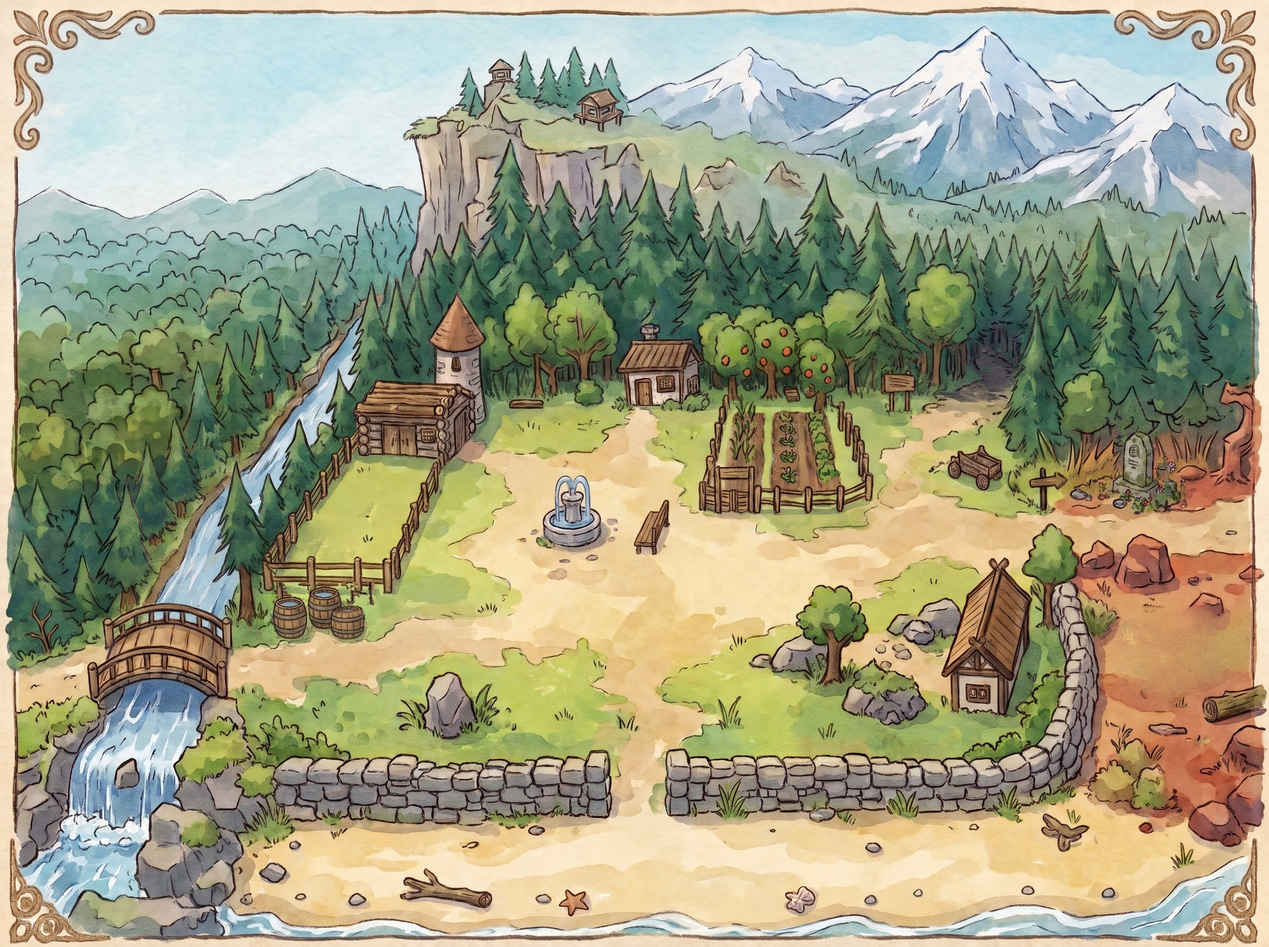
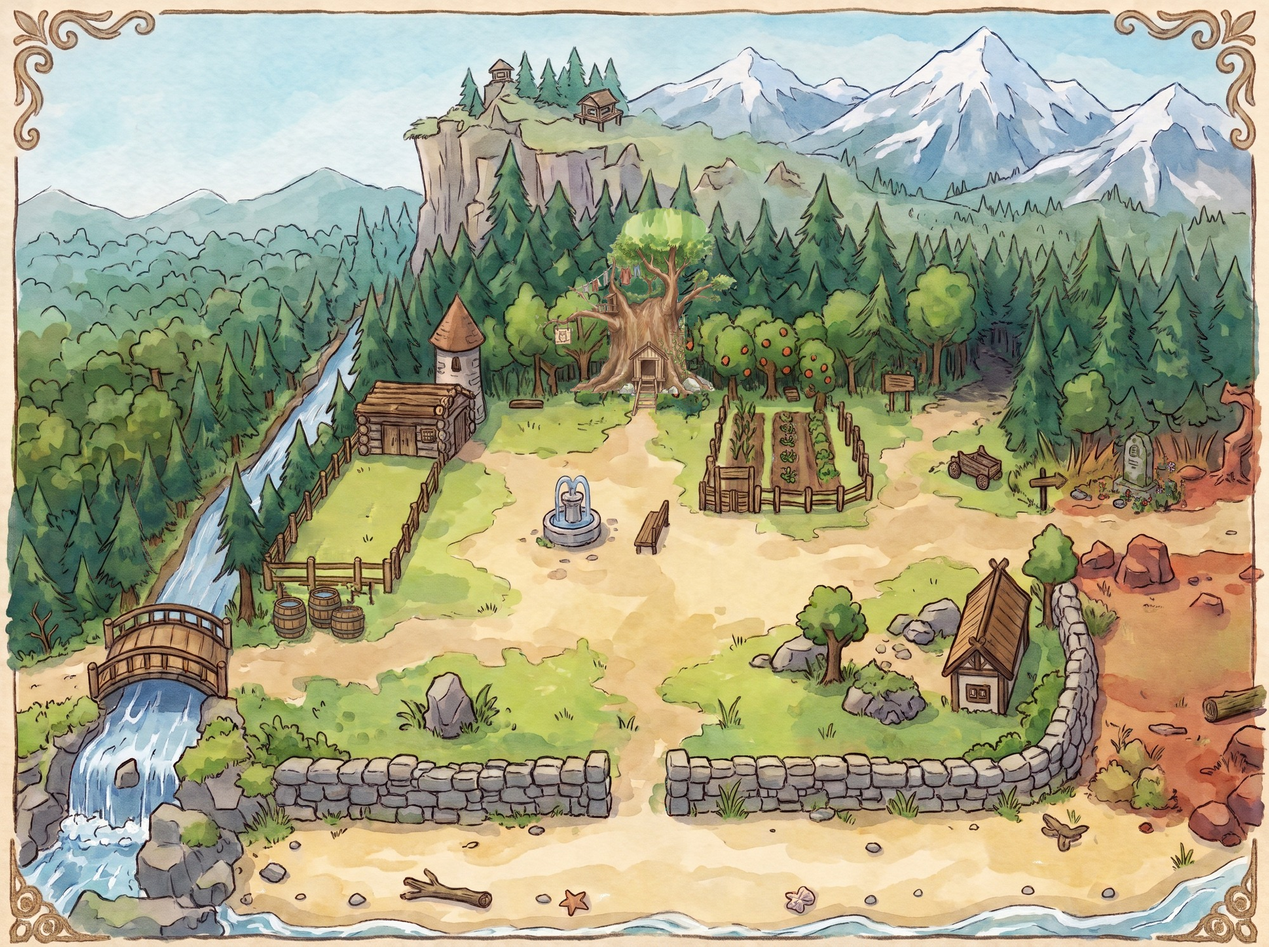
v0.8：主人公とモクちゃんの家を、Ronnie の絵の大きな木の家に
- 上端の見切れは、茂りを裏返して伸ばして丸く描き足す
- まわりの景色を除いて切り抜き、前の小屋の位置（はしごの足元＝入口）に置く
- 煙突の煙をやめ、夜の明かりと揺れる茂りを木の家に合わせる

Changed region(s): [[0.434, 0.2157, 0.589, 0.4622]]

diff --git a/src/view/world.ts b/src/view/world.ts
@@ -57,8 +57,8 @@ interface Sway {
 const SWAYS: Record<string, Sway> = {
   plazaTree: { cx: 1311, cy: 966, rx: 62, ry: 50, pivotY: 1012, amp: 1.6, phase: 0 },
   smithyTree: { cx: 1656, cy: 872, rx: 47, ry: 48, pivotY: 918, amp: 1.3, phase: 1.7 },
-  westTree1: { cx: 828, cy: 488, rx: 38, ry: 54, pivotY: 540, amp: 1.2, phase: 0.6 },
-  westTree2: { cx: 907, cy: 490, rx: 48, ry: 60, pivotY: 552, amp: 1.4, phase: 2.4 },
+  // 主人公とモクちゃんの家（大きな木）の茂り。左の2本の木は、木の家の枝と看板に重なるので揺らさない
+  bigTree: { cx: 1043, cy: 378, rx: 84, ry: 50, pivotY: 425, amp: 1.0, phase: 0.6 },
   orchard1: { cx: 1142, cy: 528, rx: 42, ry: 54, pivotY: 580, amp: 1.1, phase: 1.1 },
   orchard2: { cx: 1220, cy: 538, rx: 44, ry: 54, pivotY: 590, amp: 1.1, phase: 2.9 },
   orchard3: { cx: 1288, cy: 553, rx: 37, ry: 48, pivotY: 600, amp: 1.0, phase: 0.3 },
@@ -766,7 +766,7 @@ function emitLeaves(dt: number, cam: Camera): void {
 
 function emitVillage(dt: number, t: number, forgeBusy: boolean): void {
   // 小屋の煙突の煙（いつも少し出ている。風で右へ流れる）
-  for (let i = EMIT.chimney.count(dt); i > 0; i--) smoke(skyFx, 1018, 511);
+  // （2026-11-19 家を大きな木の家にしたので、煙突の煙は無くなった）
   // 鍛冶小屋：炉が動いているときは屋根から煙
   if (forgeBusy) for (let i = EMIT.smithySmoke.count(dt); i > 0; i--) smoke(skyFx, 1556, 892, 0.8);
 

diff --git a/src/core/map.ts b/src/core/map.ts
@@ -139,9 +139,10 @@ const BRIDGE_GAPS: [number, number][] = [
 
 /** 夜に灯る窓 */
 export const WINDOWS = {
+  // 木の家の入口と、上の小さな見張り小屋
   hut: [
-    { x: 1052, y: 602 },
-    { x: 1086, y: 612 },
+    { x: 1018, y: 582 },
+    { x: 963, y: 470 },
   ],
   forge: { x: 1586, y: 1086 },
 } as const;

diff --git a/tools/prepare_village.py b/tools/prepare_village.py
@@ -259,6 +259,137 @@ def shrink_object(base, src, hard, k=SHRINK):
     print(f'  shrink ({x0},{y0})-({x1},{y1}) -> ({nx},{ny})-({nx + small.shape[1]},{y1})')
 
 
+# ---------------------------------------------------------------- 主人公とモクちゃんの家（大きな木の家）
+
+TREEHOUSE = ROOT / 'docs/concept/treehouse.jpg'
+# 作業は元の絵の半分の大きさで行う（村に置くときはさらに縮めるので、細かさは十分）
+TH_HALF = 0.5
+# 上端の見切れを補うために、上に足す余白（元の絵の px）
+TH_PAD = 240
+# 村に置く大きさ（元の絵の px → 村の px）と、はしごの足元を置く位置
+TH_SCALE = 0.17
+TH_FOOT_SRC = (1205, 1700)
+TH_FOOT_VILLAGE = (1015, 655)
+
+# 木と家だけを囲む形（元の絵の px）。まわりの景色（左の森・牧場・右の荒野や鍛冶小屋）は入れない
+TH_POLYS = [
+    # 葉の茂り・幹・根もと
+    [(940, -230), (1840, -230), (1880, 60), (1860, 200), (1800, 280), (1650, 300), (1580, 330), (1580, 600),
+     (1580, 1150), (1600, 1280), (1700, 1330), (1830, 1400), (1860, 1470), (1700, 1505), (1320, 1500),
+     (1320, 1720), (1080, 1720), (1080, 1500), (470, 1490), (470, 1440), (640, 1360), (760, 1260), (850, 1100),
+     (880, 980), (870, 850), (860, 760), (900, 600), (860, 300), (870, 100)],
+    # 右の枝と葉
+    [(1530, 560), (1620, 470), (1660, 380), (1700, 330), (1790, 330), (1800, 380), (1880, 370), (2000, 410),
+     (2070, 440), (2060, 520), (1980, 560), (1900, 585), (1920, 640), (1860, 660), (1780, 640), (1700, 625),
+     (1600, 645), (1545, 700)],
+    # 左上の枝（洗濯ひもの端）
+    [(470, 490), (560, 500), (640, 560), (760, 640), (880, 690), (880, 730), (750, 700), (620, 600), (520, 540), (470, 520)],
+    # 左の枝と、看板・葉
+    [(200, 770), (330, 812), (400, 788), (520, 762), (640, 728), (760, 698), (880, 700), (880, 830), (800, 805),
+     (720, 795), (640, 790), (560, 798), (545, 830), (545, 1050), (360, 1050), (360, 838), (300, 865), (230, 935),
+     (200, 910)],
+    # 洗濯ひもと服
+    [(470, 500), (940, 270), (1180, 260), (1180, 450), (940, 450), (740, 560), (620, 600), (470, 530)],
+]
+
+
+def th_dome(w_half, pad_half, x0, x1):
+    """上端の見切れの上に足す、葉の茂りの丸い形（半分の大きさの座標）。x0〜x1 は元の絵の上端の茂りの幅"""
+    cx, hw, h = (x0 + x1) / 2, (x1 - x0) / 2, 215 * TH_HALF
+    top = np.full(w_half, np.inf)
+    for x in range(w_half):
+        u = (x - cx) / hw
+        if abs(u) < 1:
+            # 葉のかたまりのでこぼこ（幅 30〜40px ほどのふくらみ）
+            bump = 7 * abs(np.sin((x - x0) / 36 * np.pi))
+            top[x] = pad_half - h * (1 - u * u) ** 0.55 - bump * (1 - u * u) ** 0.3
+    return top
+
+
+def build_treehouse():
+    """木の家の絵を、上端を補い、景色を抜いた RGBA にする（半分の大きさ）"""
+    src = Image.open(TREEHOUSE).convert('RGB')
+    src = src.resize((round(src.width * TH_HALF), round(src.height * TH_HALF)), Image.LANCZOS)
+    a = np.asarray(src).astype(np.float32)
+    pad = round(TH_PAD * TH_HALF)
+    h, w = a.shape[:2]
+    img = np.full((h + pad, w, 3), 250.0, np.float32)
+    img[pad:] = a
+    paper = (a.min(axis=2) > 226) & ((a.max(axis=2) - a.min(axis=2)) < 24)
+    # 1. 上端の見切れ：元の絵の上端の茂りを上下に裏返して少し伸ばし、丸い形に描き足す
+    #    （裏返すと、つなぎ目で模様が途切れない。伸ばすのは、枝が入らない上の方だけを使うため）
+    row = np.nonzero(~paper[1])[0]
+    x0, x1 = row.min(), row.max()
+    top = th_dome(w, pad, x0, x1)
+    yy, xx = np.mgrid[0:h + pad, 0:w]
+    dome = (yy >= top[None, :]) & (yy < pad)
+    band = round(80 * TH_HALF)
+    stretch = (215 * TH_HALF + 8) / band
+    for y in range(pad):
+        sy = pad + min(band - 1, int((pad - 1 - y) / stretch))
+        m = dome[y]
+        img[y, m] = img[sy, m]
+    # 裏返した所は、少し明るく（上の葉は光が当たる）
+    lift = np.clip((pad - yy) / max(1, pad), 0, 1)[..., None] * dome[..., None]
+    img = img * (1 - 0.12 * lift) + 255 * 0.12 * lift
+    print('  茂りを描き足した')
+    # 輪郭の墨線（ゆらいだ線で、葉のかたまりの形に）
+    rng = np.random.default_rng(3)
+    ink = np.zeros((h + pad, w), np.float32)
+    for x in range(w):
+        if np.isfinite(top[x]):
+            y = top[x] + rng.normal(0, 0.4)
+            y0 = int(np.floor(y))
+            for dy, k in ((0, 1.0), (1, 0.7), (-1, 0.35)):
+                if 0 <= y0 + dy < h + pad:
+                    ink[y0 + dy, x] = max(ink[y0 + dy, x], k)
+    ink = ndimage.gaussian_filter(ink, 0.6)
+    inkc = np.array([62, 48, 40], np.float32)
+    img = img * (1 - ink[..., None] * 0.85) + inkc * ink[..., None] * 0.85
+    # 2. 形：木と家の範囲の中の、紙でない所（＋描き足した茂り）
+    pm = Image.new('L', (w, h + pad), 0)
+    d = ImageDraw.Draw(pm)
+    for poly in TH_POLYS:
+        d.polygon([(x * TH_HALF, (y + TH_PAD) * TH_HALF) for x, y in poly], fill=255)
+    region = np.asarray(pm) > 0
+    mn = img.min(axis=2)
+    sat = img.max(axis=2) - mn
+    paperish = (mn > 222) & (sat < 26)
+    fg = region & ~paperish
+    # 枝の先の後ろは、淡く描かれた遠くの森。淡い所（明るく色の薄い所）は木ではないので抜く
+    far = np.zeros_like(region)
+    far[:, :round(560 * TH_HALF)] = True
+    far[:round((TH_PAD + 680) * TH_HALF), round(1590 * TH_HALF):] = True
+    fg &= ~(far & (mn > 150) & (sat < 80))
+    fg |= dome | (ink > 0.2)
+    fg = ndimage.binary_closing(fg, iterations=2) & (region | dome | (ink > 0.05))
+    # 線で囲まれたすき間は埋めるが、紙の白い所（枝と洗濯ひもの間など）は抜いたまま
+    fg = ndimage.binary_fill_holes(fg) & ~(paperish & ~dome)
+    fg = ndimage.binary_opening(fg, iterations=1) | dome
+    alpha = ndimage.gaussian_filter(fg.astype(np.float32), 0.7)
+    alpha = np.where(fg, np.maximum(alpha, 0.85), alpha)
+    return np.concatenate([img, alpha[..., None] * 255], axis=2)
+
+
+def place_treehouse(out):
+    """前の小屋を消して、木の家を置く"""
+    print('木の家')
+    # 前の小屋（屋根・煙突・壁）を、まわりの森と草で埋める
+    hole = box_mask(944, 496, 1106, 668)
+    allow = box_mask(860, 430, 1200, 740) & ~dilate(hole, 4)
+    out = inpaint(out, hole, allow, p=11, lam=0.05, seed=11)
+    rgba = build_treehouse()
+    k = TH_SCALE / TH_HALF
+    small = resize_rgba(rgba, k)
+    fx = TH_FOOT_SRC[0] * TH_HALF * k
+    fy = (TH_FOOT_SRC[1] + TH_PAD) * TH_HALF * k
+    x0 = round(TH_FOOT_VILLAGE[0] - fx)
+    y0 = round(TH_FOOT_VILLAGE[1] - fy)
+    print(f'  木の家 {small.shape[1]}x{small.shape[0]} を ({x0},{y0}) に置く')
+    paste_rgba(out, small, x0, y0)
+    return out
+
+
 # ---------------------------------------------------------------- 本体
 
 
@@ -356,6 +487,8 @@ def main():
     out = wash_fill(out, hole, allow, seed=3)
     rgba, _ = rgba_crop(src, body)
     pass  # 同上
+
+    out = place_treehouse(out)
 
     Image.fromarray(np.clip(out, 0, 255).astype(np.uint8)).save(OUT, quality=92)
     print('saved', OUT)

diff --git a/docs/DESIGN.md b/docs/DESIGN.md
@@ -136,6 +136,16 @@ docs/concept/      Ronnie のイメージ絵（村・ウシ・ドラゴン・モ
 - **のどの渇き・空腹**：0〜100。起きている間は1時間に 渇き+6・空腹+4（【仮】。Ronnie「早さは適当でよい」。朝6時に飲めば昼すぎに「渇いてきた」、夕方に走れなくなる程度で、1日2回くらい飲む想定）、眠っている間はその3割。渇きが 50 で「のどが渇いてきた」、70 以上で走れない（「のどがカラカラ」）。表示は時計の枠の右下の小さなしずくだけ（中の水が減る。走れないときは赤っぽく点滅）。空腹は数値だけで、食べ物ができたら効くようにする（表示もまだ無い）。
 - **セーブ**：版4。前の版のデータは、水0杯・渇き0・空腹0・畑は「今日はまだ水をやっていない」で読み込む。
 
+### v0.8 の変更（2026-11-19 Ronnie の絵：主人公とモクちゃんの家）
+
+- **木の家**：前の小屋の代わりに、Ronnie の絵（`docs/concept/treehouse.jpg`）の大きな木の家を置いた。`tools/prepare_village.py` の `place_treehouse`。
+  - 元の絵は上端で葉の茂りが切れていたので、上端の茂りを上下に裏返して少し伸ばし、丸い茂りとして描き足した（つなぎ目が出ない）。輪郭には墨線を引く。
+  - まわりの景色（左の森・牧場・右の荒野や鍛冶小屋）は除き、木・枝・看板・洗濯ひも・見張り小屋・はしごだけを切り抜く。
+  - 村では元の絵の 0.17 倍。はしごの足元を小屋の前（1015, 655）に合わせた。前の小屋は周りの森と草で埋めた。入口（はしごの下）・寝床などの位置は変わらない。
+- **煙突の煙**：木の家に煙突は無いので、出さないことにした。
+- **夜の明かり**：木の家の入口と、上の見張り小屋に灯る。
+- **木の揺れ**：木の家の茂りが揺れる。左の2本の木は、木の家の枝と看板に重なるので揺らさない。
+
 ### 素材の差し込み口
 
 ファイルを置くだけで使われ、無ければ代わりの表示で進む（`public/assets/README.md`）。
